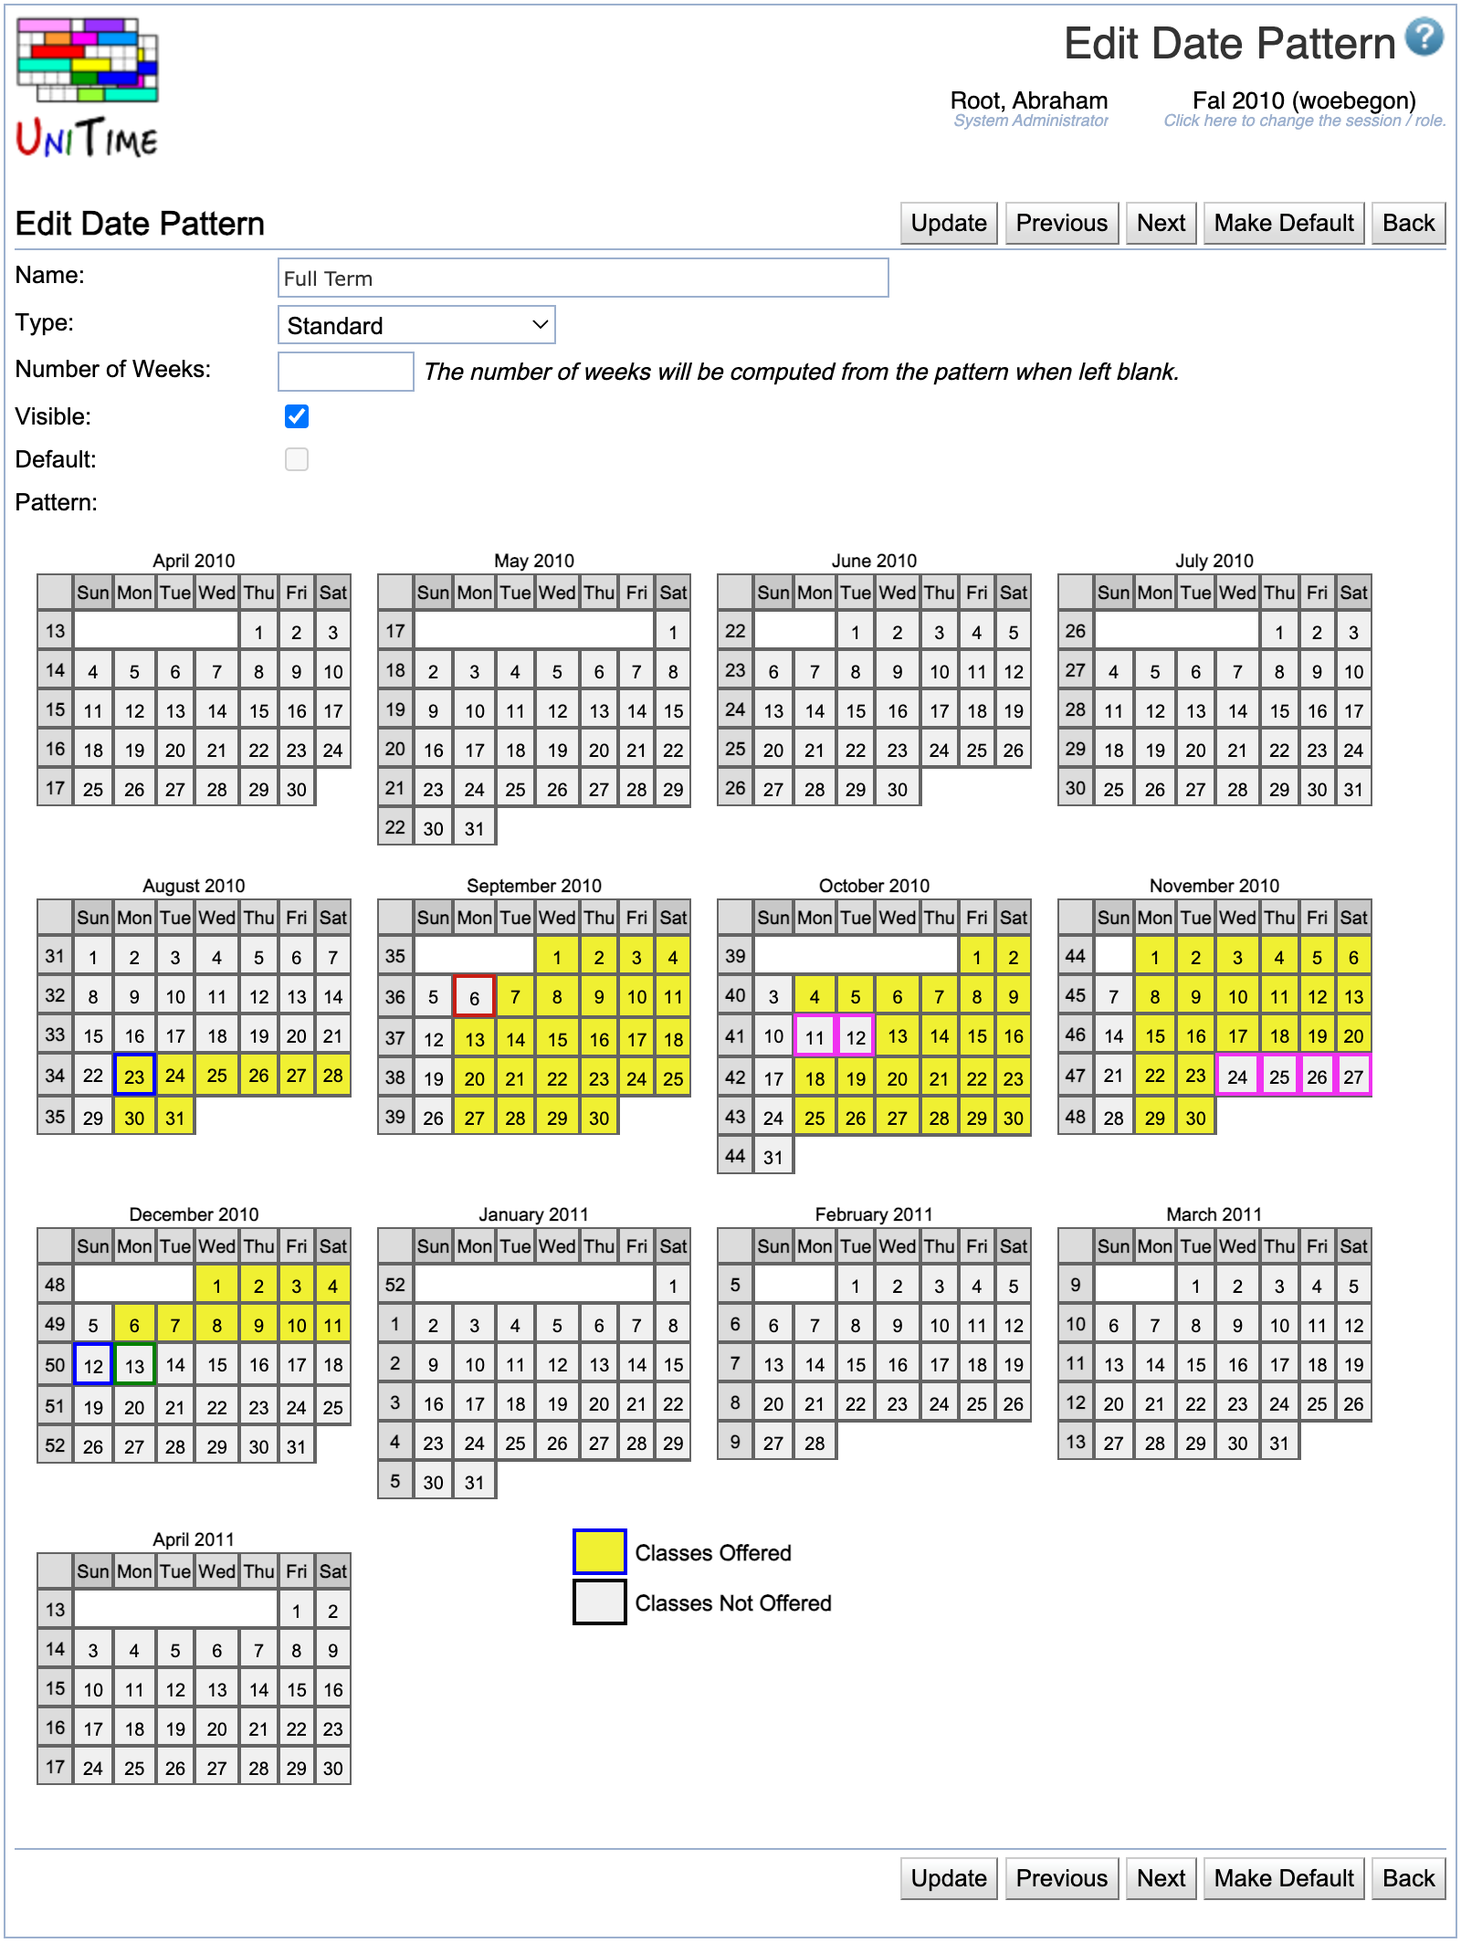
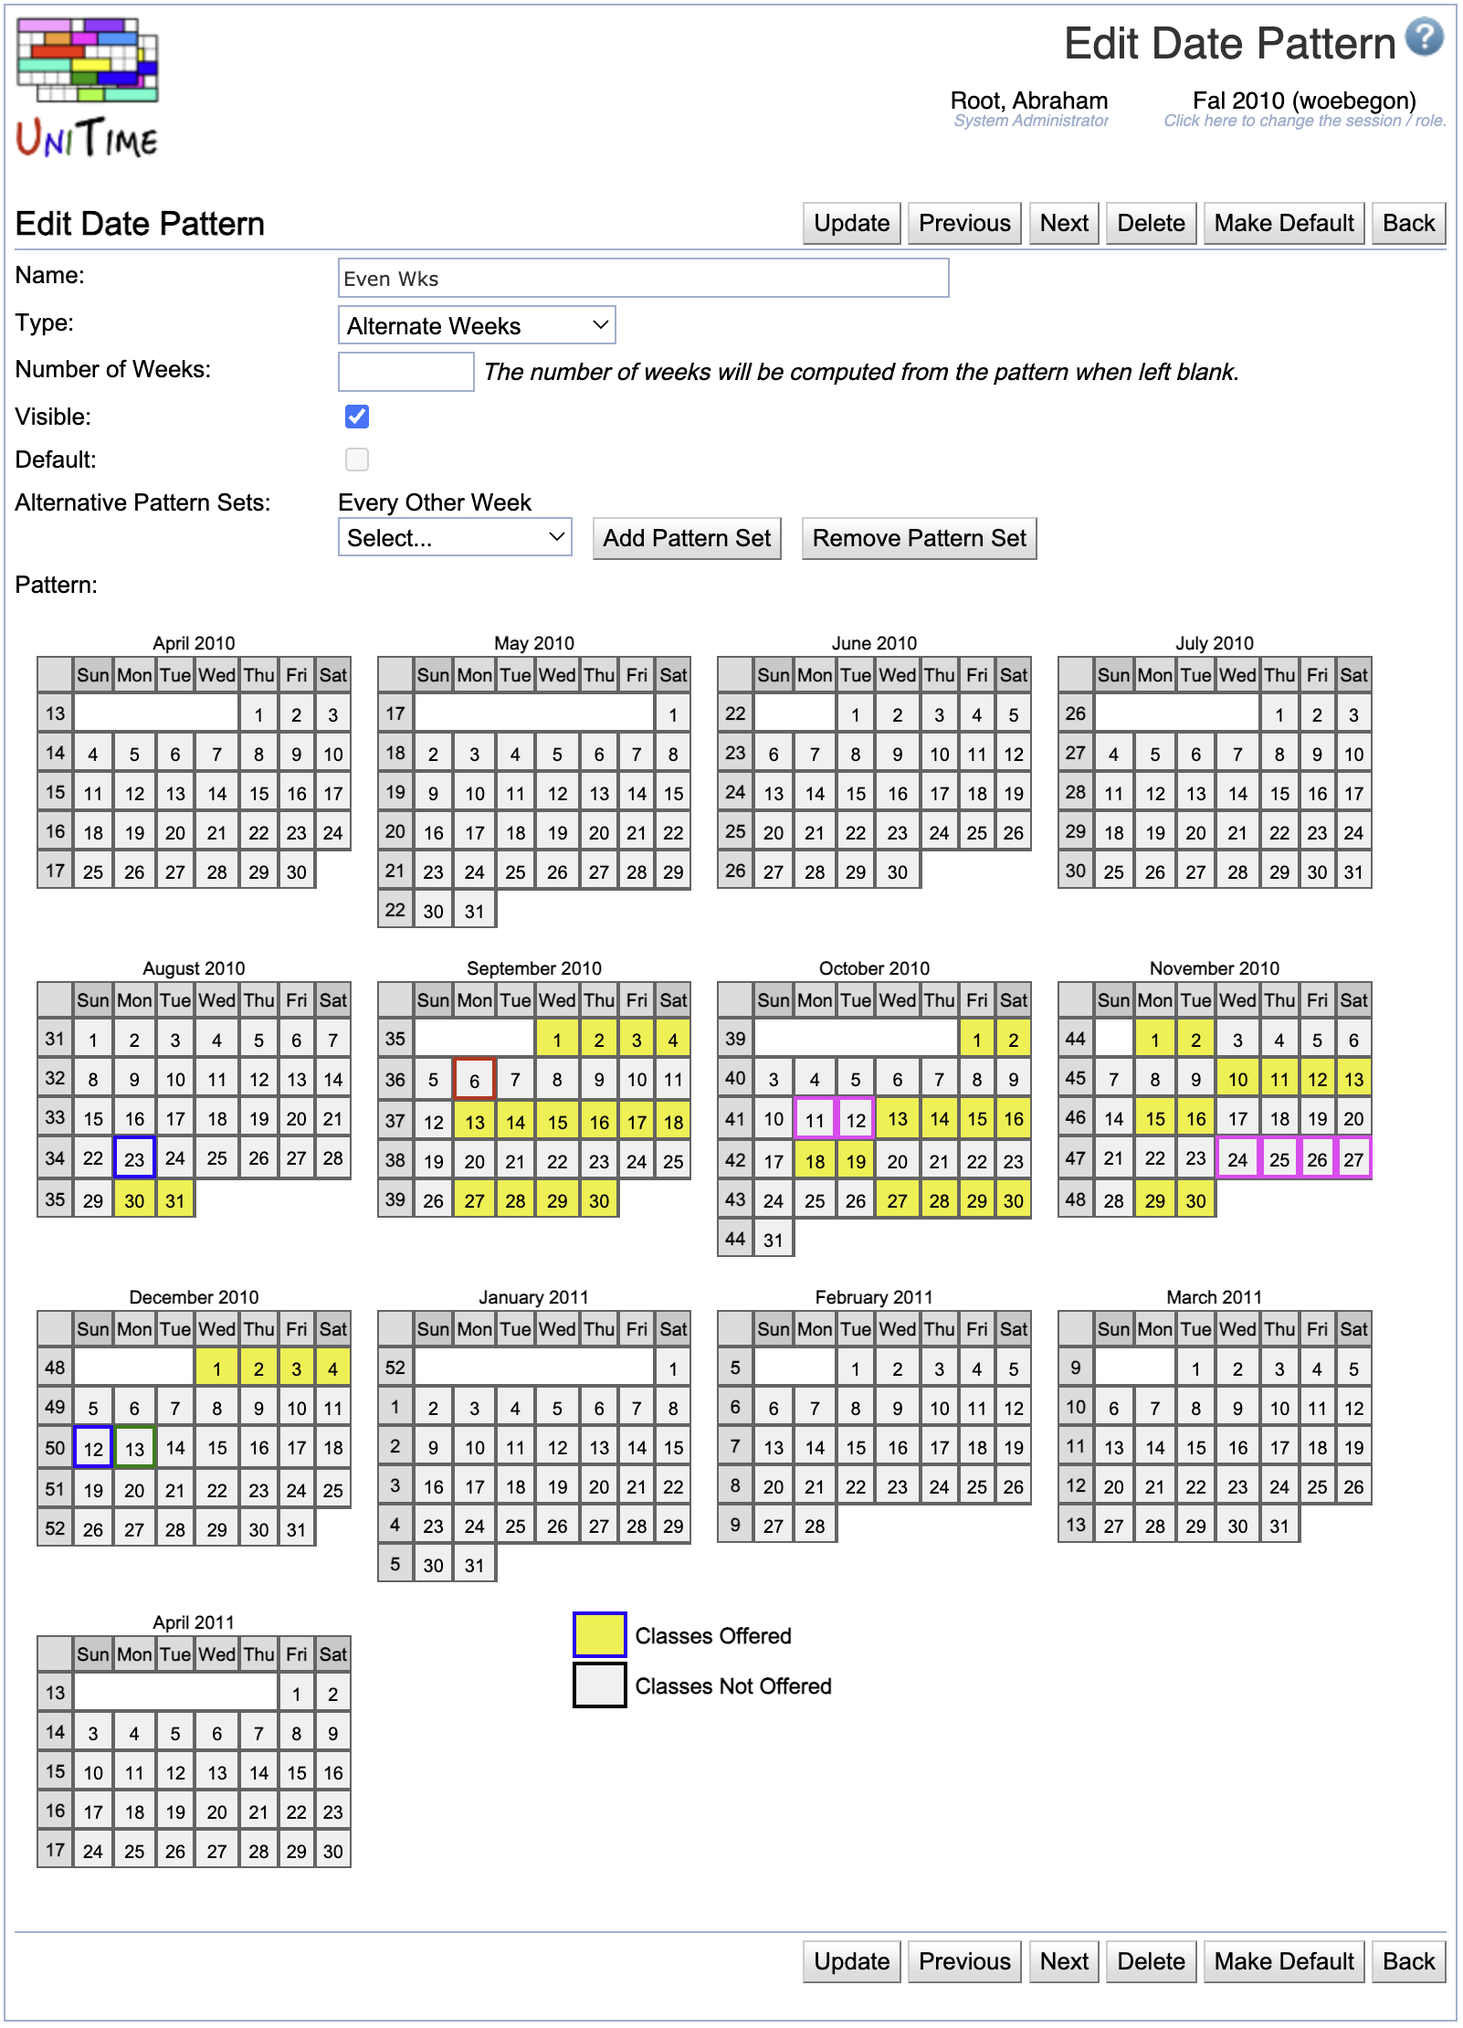
Date Patterns
- new screenshot, describtion of the available item

Changed region(s): [[0.0, 0.0, 0.9375, 0.9305], [0.1875, 0.0, 1.0, 0.2481], [0.0, 0.9305, 1.0, 1.0]]

diff --git a/edit-date-pattern.md b/edit-date-pattern.md
@@ -18,13 +18,16 @@ A date pattern defines a set of dates associated with a term when a class may me
 	* Name of the date pattern
 
 * **Type**
-	* Type of the date pattern (Standard, Alternate Weeks, Non-Standard, Extended)
-		* These types may be helpful for organizing the list of date patterns.
-			* On classes and scheduling subparts, date patterns are ordered based on these types (Standard date patterns first, then Alternate Weeks, etc.)
-		* If the type is Extended, only explicitly indicated departments (and administrators) have access to this date pattern (these are not visible as options on classes and scheduling subparts that are managed by departments not listed on these date patterns)
+	* Type of the date pattern (**Standard**, **Alternate Weeks**, **Non-Standard**, **Extended**)
+	* These types may be helpful for organizing the list of date patterns
+		* On classes and scheduling subparts, date patterns are ordered based on these types (Standard date patterns first, then Alternate Weeks, etc.)
+	* If the type is **Extended**, only explicitly indicated departments (and administrators) have access to this date pattern (these are not visible as options on classes and scheduling subparts that are managed by departments not listed on these date patterns)
+	* **Alternative Pattern Set** type can be used to define alternative date patterns (e.g. every other week)
+		* In this case there is no pattern, but a list of date patterns the solver can choose from is selected (e.g. even weeks, odd weeks)
 
 * **Number of Weeks**
-	* Number of weeks that the date pattern is using (e.g., for reporting). The number of weeks will be computed from the pattern when left blank.
+	* Number of weeks of the date pattern for reporting purposes
+	* The number of weeks will be computed from the pattern when left blank
 
 * **Visible**
 	* When checked (checked by default), the date pattern will be available to users authorized to use it
@@ -33,15 +36,29 @@ A date pattern defines a set of dates associated with a term when a class may me
 * **Default**
 	* Checked if this date pattern is the default date pattern for all classes
 	* The default date pattern is displayed in bold letters in the list of date patterns
-	* To change the default date pattern, go to the add/edit screen of the date pattern that should be default and click on the Make Default button (alternatively, you can select a default date pattern on [Edit Academic Session](edit-academic-session) screen)
+	* To change the default date pattern, go to the add/edit screen of the date pattern that should be default and click on the **Make Default** button (alternatively, you can select a default date pattern on [Edit Academic Session](edit-academic-session) screen)
 
 * **Departments**
-	* For the date patterns of type Extended, it is necessary to specify which departments should have access to the date pattern (unless the date pattern should be used by administrator only)
-	* Select a department in the drop down menu and click **Add Department** to authorize the department to use the date pattern (not applied until Save or Update is clicked)
-	* Select a department in the drop down menu and click **Remove Department** to withhold the authorization to use a given date pattern by that department
+	* This item is only accessible when either the **Extended** or the **Alternative Pattern Set** type is selected
+	* For the date patterns of type **Extended**, it is necessary to specify which departments should have access to the date pattern (unless the date pattern should be used by administrator only)
+	* Select a department in the drop-down menu and click **Add Department** to authorize the department to use the date pattern (not applied until Save is clicked)
+	* Select a department in the drop-down menu and click **Remove Department** to withhold the authorization to use a given date pattern by that department
+
+* **Date Patterns**
+	* This item is only available when the **Alternative Pattern Set** type is selected
+	* List of date patterns that are alternative to each other (can be used when the alternative pattern set date pattern is set for a class)
+	* Select a date pattern in the drop-down menu and click **Add Date Pattern** to add it on the list
+	* Select a date pattern in the drop-down menu and click **Remove Date Pattern** to remove it from the list
+
+* **Alternative Pattern Sets**
+	* This item is only available when the type is not the **Alternative Pattern Set** type, and there is at least one alternative date pattern set already created
+	* List of alternative pattern sets that this date pattern belongs to
+	* Select a date pattern in the drop-down menu and click **Add Date Pattern** to add it on the list
+	* Select a date pattern in the drop-down menu and click **Remove Date Pattern** to remove it from the list
 
 * **Pattern**
 	* Indicate days of instructions in the calendar
+	* Not available when the **Alternative Pattern Set** type is selected
 
 ## Operations
 
@@ -50,7 +67,8 @@ A date pattern defines a set of dates associated with a term when a class may me
 
 * **Delete**
 	* Delete the date pattern and go back to the [Date Patterns](date-patterns) screen
-		* It is possible to delete a date pattern only if it is not used on any class (if it is used somewhere, you can make the date pattern not visible, so that it cannot be assigned to any other class any more)
+	* It is possible to delete a date pattern only if it is not used on any class
+	* If it is used somewhere, you can make the date pattern not visible, so that it cannot be assigned to any other class anymore
 
 * **Make Default**
 	* Save changes, make the date pattern the default date pattern and go back to the [Date Patterns](date-patterns) screen

diff --git a/add-date-pattern.md b/add-date-pattern.md
@@ -10,7 +10,7 @@ The Add Date Pattern screen provides interface for adding a new date pattern.
 
 A date pattern defines a set of dates associated with a term when a class may meet. The actual meeting times of a class are computed as a projection of a time pattern onto a date pattern (e.g., a class that is taught on Tuesdays and Thursdays meets on all dates from the date pattern that are on Tuesday and Thursday). Normally, a date pattern should contain all dates of particular weeks (e.g, Week 1-4 contains all dates between Monday of the first week and Sunday of the 4th week). Date patterns consist of dates rather than weeks in order to allow institutions to shift weeks around holidays.
 
-![Add Date Pattern](images/add-date-pattern.png){:class='screenshot'}
+![Add Date Pattern](images/add-date-pattern-1.png){:class='screenshot'}
 
 ## Details
 
@@ -18,11 +18,11 @@ A date pattern defines a set of dates associated with a term when a class may me
 	* Name of the date pattern
 
 * **Type**
-	* Type of the date pattern (Standard, Alternate Weeks, Non-Standard, Extended)
-		* These types may be helpful for organizing the list of date patterns
-			* On classes and scheduling subparts, date patterns are ordered based on these types (Standard date patterns first, then Alternate Weeks, etc.)
-		* If the type is Extended, only explicitly indicated departments (and administrators) have access to this date pattern (these are not visible as options on classes and scheduling subparts that are managed by departments not listed on these date patterns)
-	* Alternative Pattern Set type can be used to define alternative date patterns (e.g. every other week)
+	* Type of the date pattern (**Standard**, **Alternate Weeks**, **Non-Standard**, **Extended**)
+	* These types may be helpful for organizing the list of date patterns
+		* On classes and scheduling subparts, date patterns are ordered based on these types (Standard date patterns first, then Alternate Weeks, etc.)
+	* If the type is **Extended**, only explicitly indicated departments (and administrators) have access to this date pattern (these are not visible as options on classes and scheduling subparts that are managed by departments not listed on these date patterns)
+	* **Alternative Pattern Set** type can be used to define alternative date patterns (e.g. every other week)
 		* In this case there is no pattern, but a list of date patterns the solver can choose from is selected (e.g. even weeks, odd weeks)
 
 * **Number of Weeks**
@@ -36,16 +36,29 @@ A date pattern defines a set of dates associated with a term when a class may me
 * **Default**
 	* Checked if this date pattern is the default date pattern for all classes
 	* The default date pattern is displayed in bold letters in the list of date patterns
-	* To change the default date pattern, go to the add/edit screen of the date pattern that should be default and click on the Make Default button (alternatively, you can select a default date pattern on [Edit Academic Session](edit-academic-session) screen)
+	* To change the default date pattern, go to the add/edit screen of the date pattern that should be default and click on the **Make Default** button (alternatively, you can select a default date pattern on [Edit Academic Session](edit-academic-session) screen)
 
 * **Departments**
-	* This item is only accessible when either the Extended or the Alternative Pattern Set type is selected
-	* For the date patterns of type Extended, it is necessary to specify which departments should have access to the date pattern (unless the date pattern should be used by administrator only)
-	* Select a department in the drop down menu and click **Add Department** to authorize the department to use the date pattern (not applied until Save is clicked)
-	* Select a department in the drop down menu and click **Remove Department** to withhold the authorization to use a given date pattern by that department
+	* This item is only accessible when either the **Extended** or the **Alternative Pattern Set** type is selected
+	* For the date patterns of type **Extended**, it is necessary to specify which departments should have access to the date pattern (unless the date pattern should be used by administrator only)
+	* Select a department in the drop-down menu and click **Add Department** to authorize the department to use the date pattern (not applied until Save is clicked)
+	* Select a department in the drop-down menu and click **Remove Department** to withhold the authorization to use a given date pattern by that department
+
+* **Date Patterns**
+	* This item is only available when the **Alternative Pattern Set** type is selected
+	* List of date patterns that are alternative to each other (can be used when the alternative pattern set date pattern is set for a class)
+	* Select a date pattern in the drop-down menu and click **Add Date Pattern** to add it on the list
+	* Select a date pattern in the drop-down menu and click **Remove Date Pattern** to remove it from the list
+
+* **Alternative Pattern Sets**
+	* This item is only available when the type is not the **Alternative Pattern Set** type, and there is at least one alternative date pattern set already created
+	* List of alternative pattern sets that this date pattern belongs to
+	* Select a date pattern in the drop-down menu and click **Add Date Pattern** to add it on the list
+	* Select a date pattern in the drop-down menu and click **Remove Date Pattern** to remove it from the list
 
 * **Pattern**
 	* Indicate days of instructions in the calendar
+	* Not available when the **Alternative Pattern Set** type is selected
 
 ## Operations
 

diff --git a/date-patterns.md b/date-patterns.md
@@ -14,43 +14,49 @@ A date pattern defines a set of dates associated with a term when a class may me
 
 ## Details
 
-The list of date patterns contains the following information
+The list of date patterns contains the following information:
 
 * **Name**
-	* Name of the date pattern
+    * Name of the date pattern
 
 * **Type**
-	* Type of the date pattern (Standard, Alternate Weeks, Non-Standard, Extended)
-		* These types may be helpful for organizing the list of date patterns.
-			* On classes and scheduling subparts, date patterns are ordered based on these types (Standard date patterns first, then Alternate Weeks, etc.)
-		* If the type is Extended, only explicitly indicated departments (and administrators) have access to this date pattern (these are not visible as options on classes and scheduling subparts that are managed by departments not listed on these date patterns)
+    * Type of the date pattern (**Standard**, **Alternate Weeks**, **Non-Standard**, **Extended**)
+    * These types may be helpful for organizing the list of date patterns.
+        * On classes and scheduling subparts, date patterns are ordered based on these types (Standard date patterns first, then Alternate Weeks, etc.)
+    * If the type is **Extended**, only explicitly indicated departments (and administrators) have access to this date pattern (these are not visible as options on classes and scheduling subparts that are managed by departments not listed on these date patterns)
+    * The **Alternative Pattern Set** is a special type. It does not have individual dates, but it contains one or more other date patterns that are alternatives to each other. When used, this allows the solver to pick one of the alternative date patterns for the class.
 
 * **Used**
-	* Checked if the date pattern is being used for some class
-		* It is not possible to delete a date pattern if it is being used
+    * Checked if the date pattern is being used for some class
+    * Please note that it is not allowed to delete a date pattern if it is being used
 
 * **Weeks**
-	* Number of weeks the Date Pattern spans
+    * Number of weeks the Date Pattern spans
 
-* **Dates**
-	* Dates that constitute this date pattern
+* **Dates / Patterns**
+    * Dates that constitute this date pattern (for normal date patterns)
+    * Alternative date patterns for the **Alternative Pattern Set** date pattern
 
 * **Departments**
-	* Departments that have access to this date pattern if the date pattern is of type Extended (if the type is not Extended and the date pattern is visible, all departments have access to it)
+    * Departments that have access to this date pattern if the date pattern is of type **Extended**
+    * If the type is not **Extended** and the date pattern is visible, all departments have access to it
+    * **Alternative Pattern Set** date patterns are visible to all departments, except for the case when they have one or more departments associated with them. In this case, only the listed departments can use the date pattern.
 
-The date patterns not usable for a given academic session are in gray letters (to make a date pattern not usable click on it and untoggle option visible).
+The date patterns not usable for a given academic session are in gray letters (to make a date pattern not usable, click on it and untoggle the option visible). Such date patterns can still be used on scheduling subparts and classes that already have them, but they cannot be added to a new scheduling subpart or class. In other words, invisible date patterns are not listed in the list of available date patterns on the [Edit Scheduling Subpart](edit-scheduling-subpart), [Edit Class](edit-class), and other relevant classes except for the case when they are already used for the subpart/class.
 
 ## Operations
 
+Click on a date pattern to edit or delete a date pattern using the [Edit Date Pattern](edit-date-pattern) screen.
+
 * **Add Date Pattern**
-	* Add a new date pattern in the [Add Date Pattern](add-date-pattern) screen
+    * Add a new date pattern in the [Add Date Pattern](add-date-pattern) screen
 
 * **Assign Departments**
-	* After a roll forward of an academic session, find classes that have an extended date pattern and authorize the departments of these classes to use these date patterns
+    * After a roll forward of an academic session, find classes that have an extended date pattern and authorize the departments of these classes to use these date patterns
 
 * **Push Up**
-	* After a roll forward of an academic session, if preferences were rolled forward on the class level, for each scheduling subpart that has all classes with the same date pattern, apply the date pattern push the date pattern up to the scheduling subpart
+    * After a roll forward of an academic session, if preferences were rolled forward on the class level, for each scheduling subpart that has all classes with the same date pattern, apply the date pattern push the date pattern up to the scheduling subpart
 
 * **Export CSV**
-	* Export the list of date patterns into a CSV file that can be easily open in Excel
+    * Export the list of date patterns into a CSV file that can be easily opened in Excel
 
